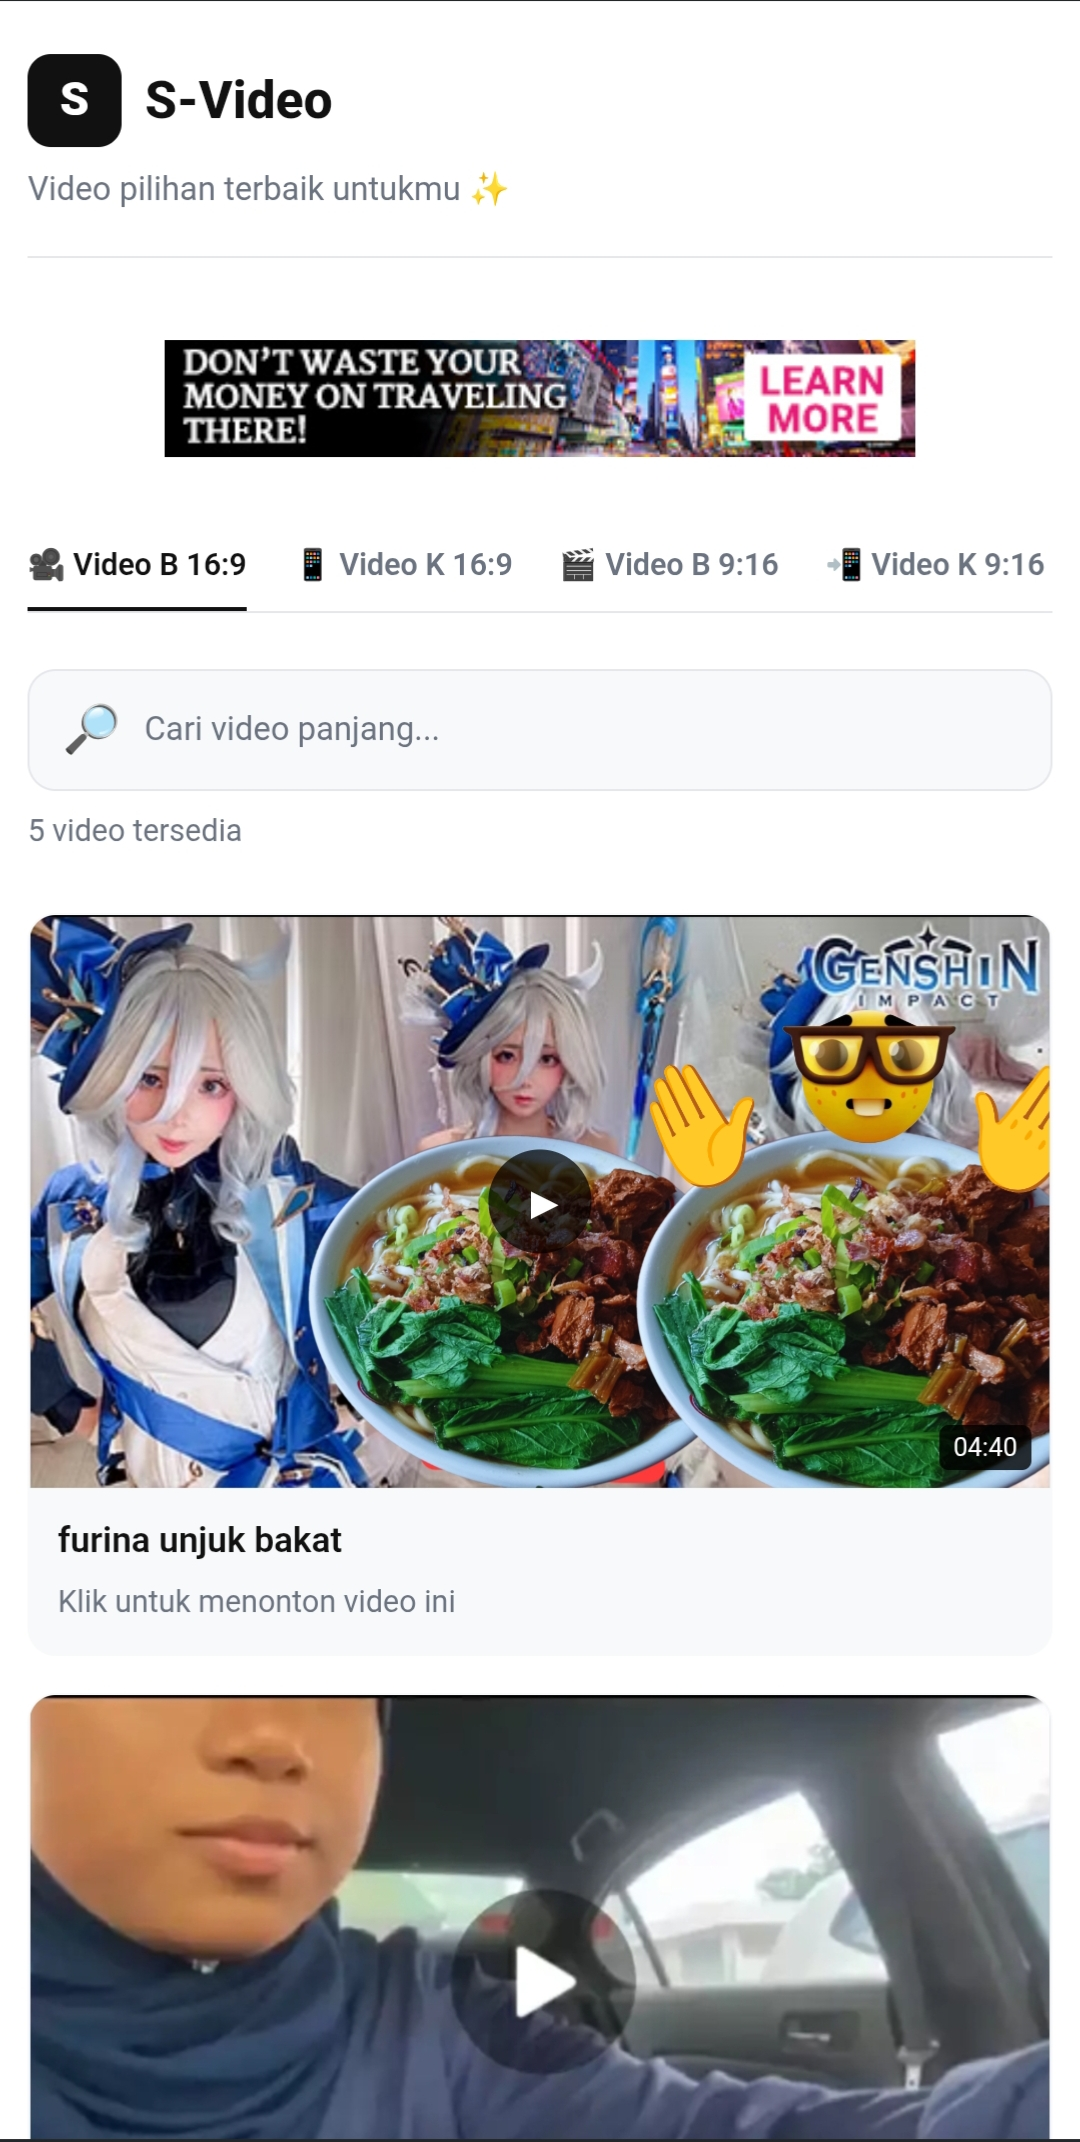
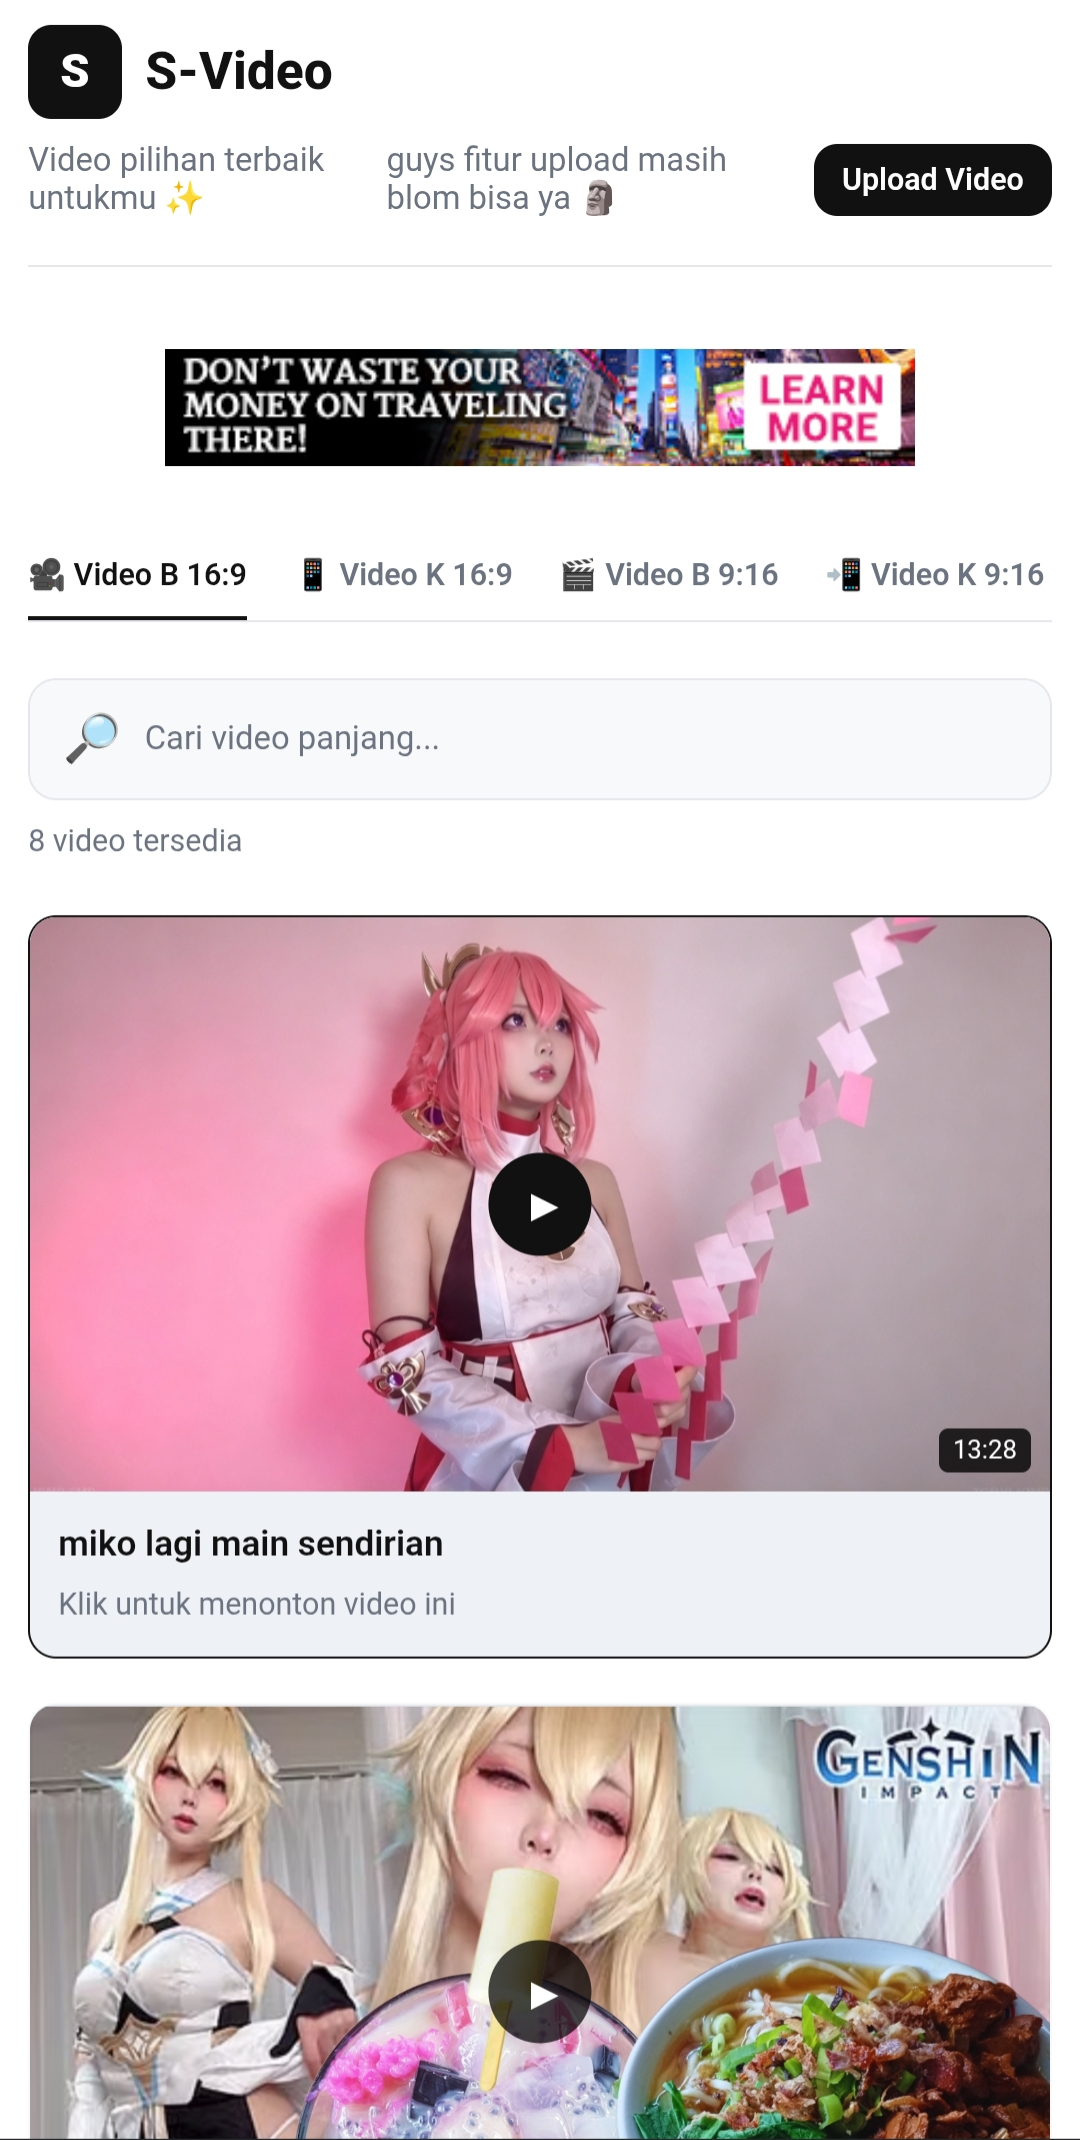
Add files via upload

diff --git a/Pilihvid.html b/Pilihvid.html
@@ -607,7 +607,19 @@ header p {
 
      <div class="video-grid">
 
-       <a href="https://1024terabox.com/s/1JZOpWrCpVVoN9KkBrN5BPw" target="_blank" class="video-card">
+       <a href="https://uc-share.com/s/061211158c324?la=id" target="_blank" class="video-card">
+        <div class="thumbnail">
+          <img src="costplayyaemiko(b).jpg" alt="Thumbnail mobil">
+          <div class="play-button">▶</div>
+          <span class="duration">13:28</span>
+        </div>
+        <div class="info">
+          <div class="judul">miko lagi main sendirian</div>
+          <div class="desc">Klik untuk menonton video ini</div>
+        </div>
+       </a>
+
+       <a href="https://uc-share.com/s/3523ed26a3ad4?la=id" target="_blank" class="video-card">
         <div class="thumbnail">
           <img src="luminecostplay(b).jpg" alt="Thumbnail mobil">
           <div class="play-button">▶</div>
@@ -778,6 +790,18 @@ header p {
     </div>
 
     <div class="video-grid vertical-grid">
+
+      <a href="https://uc-share.com/s/061211158c324?la=id" class="video-card">
+        <div class="thumbnail vertical">
+          <img src="costplayyaemikoshort(b).jpg" alt="Thumbnail video panjang vertikal">
+          <div class="play-button">▶</div>
+          <span class="duration">13:28</span>
+        </div>
+        <div class="info">
+          <div class="judul">costplay jadi yae miko 😹😹</div>
+          <div class="desc">Klik untuk menonton video ini</div>
+        </div>
+      </a>
 
       <a href="https://media2.twimg.rest/HJKTfg8X1.mp4" class="video-card">
         <div class="thumbnail vertical">
